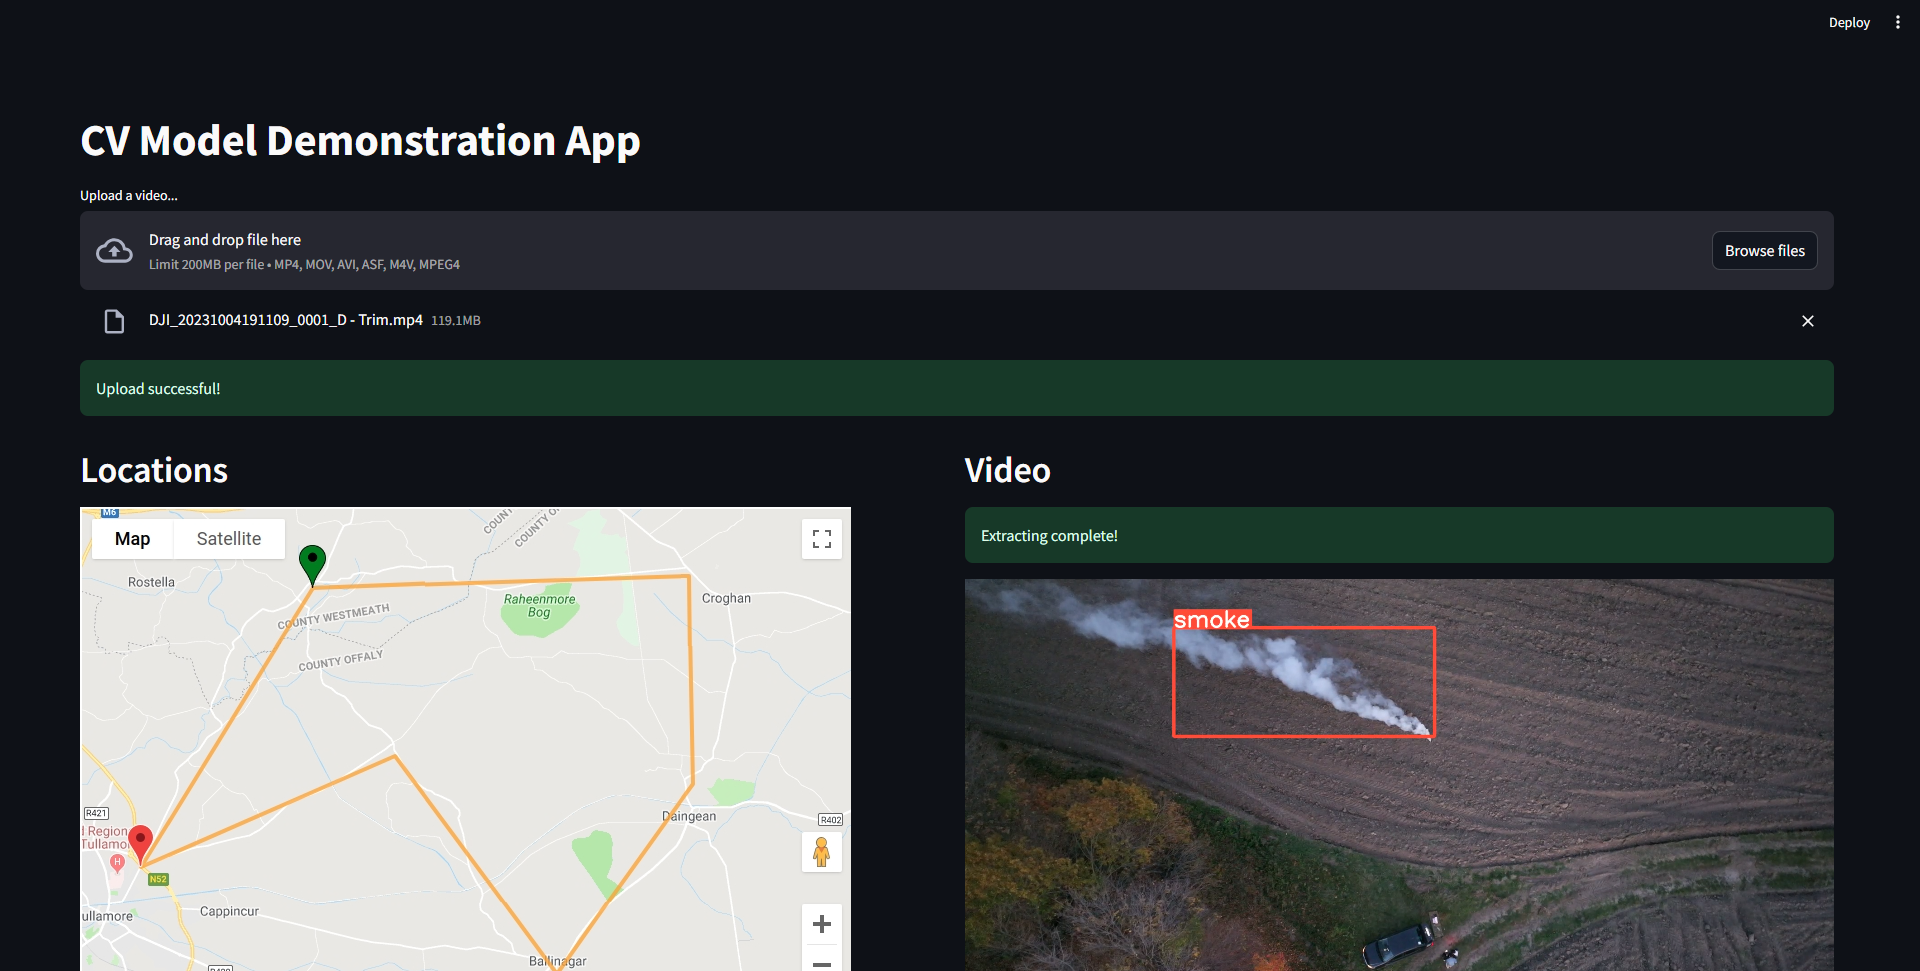
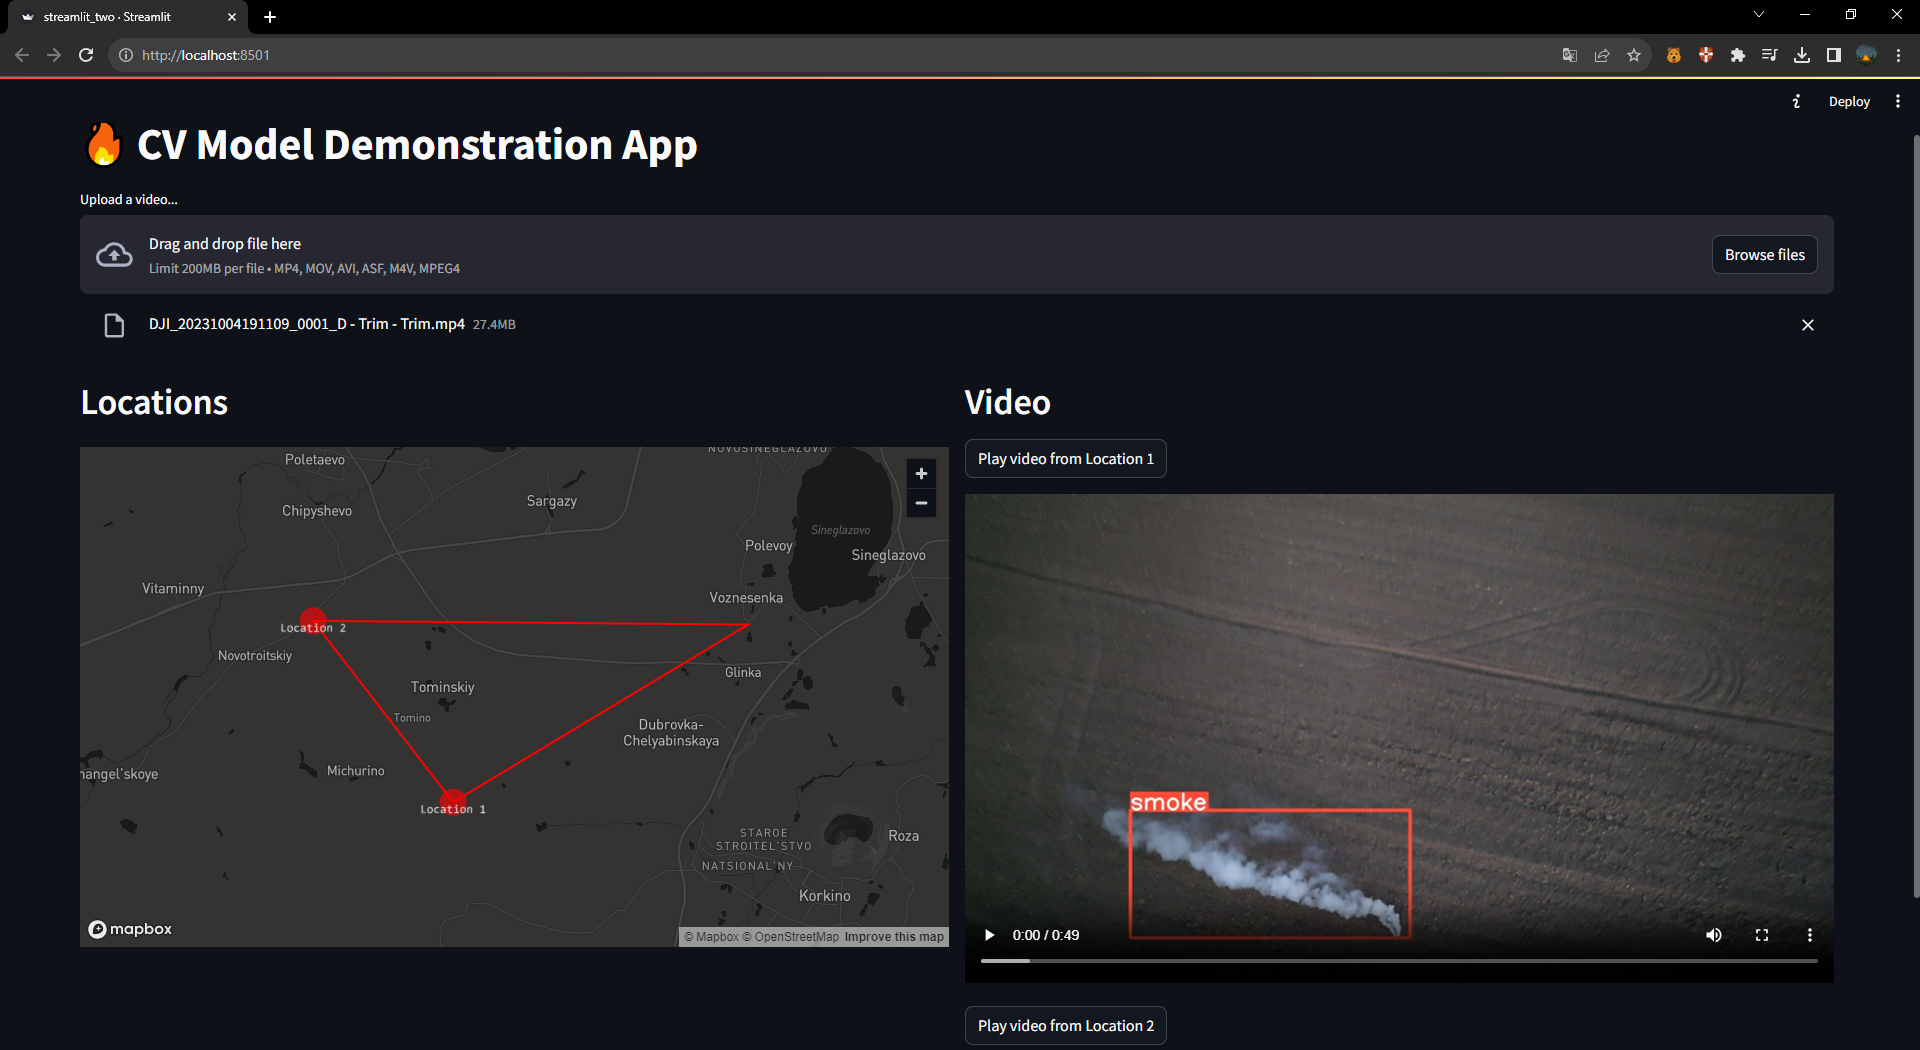
Streamlit App modified

diff --git a/streamlit_map.py b/streamlit_map.py
@@ -1,65 +1,132 @@
 import streamlit as st
-import streamlit as st
-import tempfile
+import pandas as pd
 from pathlib import Path
-from PIL import Image
+import pydeck as pdk
+import tempfile
 
-# Set page config to wide mode
 st.set_page_config(layout="wide")
+st.title("🔥 CV Model Demonstration App")
+
+# Sample data: list of latitudes, longitudes, names, and video file paths
+locations = [
+    {"name": "Location 1", "lat": 54.921094, "lon":
+        61.192561, "video_path": "ITMO_CV_Course\\temp_videos\\tmpx6vfyuvc.mp4"},
+    {"name": "Location 2", "lat": 54.981479, "lon":
+        61.111365, "video_path": "ITMO_CV_Course\\temp_videos\\tmpx6vfyuvc.mp4"},
+    # Add more locations and corresponding videos here
+]
+
+# Convert the locations to a DataFrame
+df = pd.DataFrame(locations)
+
+# Sample data for the trajectory
+# This should be a list of lists, where each inner list represents a [longitude, latitude] pair
+trajectory_data = [
+    {"name": "Trajectory 1", "path": [[61.363556, 54.980254], [61.111365, 54.981479],[61.192561, 54.921094], [61.363556, 54.980254]]},
+    # Add more trajectories here
+]
+
+# Convert trajectory data to a DataFrame
+df_trajectory = pd.DataFrame(trajectory_data)
 
 # Function to process the video
 def process_video(input_path):
     # Your CV model processing code here
-    # For now, let's just return the same path for demonstration
-    # Simulate processing time with sleep
     import time
     time.sleep(5)  # Remove this in your actual function
     return input_path
 
 
-# Function to display the video in Streamlit
-def display_video(video_path, key=None):
-    st_video = open(video_path, 'rb')
-    video_bytes = st_video.read()
-    st.video(video_bytes, format="video/mp4")
+# Function to create a map with points and text labels
+def create_map(df_points, df_trajectory):
+        # Create a PathLayer for the trajectory
+    path_layer = pdk.Layer(
+        "PathLayer",
+        data=df_trajectory,
+        get_path="path",
+        get_color=[255, 0, 0],  # Red color for the trajectory
+        width_scale=20,
+        width_min_pixels=2,
+        pickable=True,
+        auto_highlight=True,
+    )
+
+    # Create a ScatterplotLayer for the locations
+    scatterplot_layer = pdk.Layer(
+        "ScatterplotLayer",
+        data=df_points,
+        get_position='[lon, lat]',
+        get_color='[255, 0, 0, 160]',  # Red color
+        get_radius=500,  # Radius in meters
+        pickable=True,
+        auto_highlight=True,
+    )
+
+    # Create a TextLayer for the location names
+    text_layer = pdk.Layer(
+        "TextLayer",
+        data=df_points,
+        get_position='[lon, lat]',
+        get_text='name',
+        get_color='[255,255,255,255]',  # White color
+        get_size=12,
+        get_alignment_baseline="'top'",
+    )
+
+    # Set the view for the map
+    view_state = pdk.ViewState(
+        latitude=df_points["lat"].mean(),
+        longitude=df_points["lon"].mean(),
+        zoom=10
+    )
+
+    # Render the map with the layers
+    st.pydeck_chart(pdk.Deck(layers=[path_layer, scatterplot_layer, text_layer], initial_view_state=view_state,
+                    map_style='mapbox://styles/mapbox/dark-v10'))
 
 
-st.title("CV Model Demonstration App")
+# Initialize session state variables if they don't exist
+if 'uploaded_video_path' not in st.session_state:
+    st.session_state['uploaded_video_path'] = None
+
+if 'video_processed' not in st.session_state:
+    st.session_state['video_processed'] = False
+
 
 # Create a temporary directory within the project directory
 temp_dir = Path("temp_videos")
 temp_dir.mkdir(parents=True, exist_ok=True)
 
 # Upload file section
-uploaded_file = st.file_uploader("Upload a video...", type=["mp4", "mov", "avi", "asf", "m4v"])
+uploaded_file = st.file_uploader("Upload a video...", type=[
+                                 "mp4", "mov", "avi", "asf", "m4v"])
 
 # If a file is uploaded, save it to a temporary directory and display it
-if uploaded_file is not None:
-    with st.spinner('Uploading...'):
-        tfile = tempfile.NamedTemporaryFile(delete=False, dir=temp_dir, suffix='.mp4') 
+if uploaded_file is not None and not st.session_state['video_processed']:
+    with st.spinner('Extracting...'):
+        tfile = tempfile.NamedTemporaryFile(
+            delete=False, dir=temp_dir, suffix='.mp4')
         tfile.write(uploaded_file.read())
+        st.session_state['uploaded_video_path'] = tfile.name
         video_path = tfile.name
-        st.success('Upload successful!')
         tfile.close()
+        
+        process_video(video_path)
+        st.session_state['video_processed'] = True
+        st.success('Extracting successful!')
 
-    # Create two columns for preview and processed videos
+# Check if the video has been processed
+if st.session_state['video_processed']:
+
     col1, col2 = st.columns([1, 1])
 
-    # Use the first column for the preview section
     with col1:
         st.header("Locations")
-        # Opening the image
-        image = Image.open('Assets/map.png')
-        # Displaying the image on streamlit app
-        st.image(image, caption='Some caption of this image')
+        create_map(df, df_trajectory)
 
     with col2:
         st.header("Video")
-        with st.spinner('Extracting...'):
-            # Process the video and get the path to the result
-            processed_video_path = process_video(video_path)
-            st.success('Extracting complete!')
-            # Display the processed video
-            display_video(processed_video_path)
-
-
+        # Display buttons for each location and play the corresponding video when clicked
+        for location in locations:
+            if st.button(f"Play video from {location['name']}"):
+                st.video(location['video_path'])
